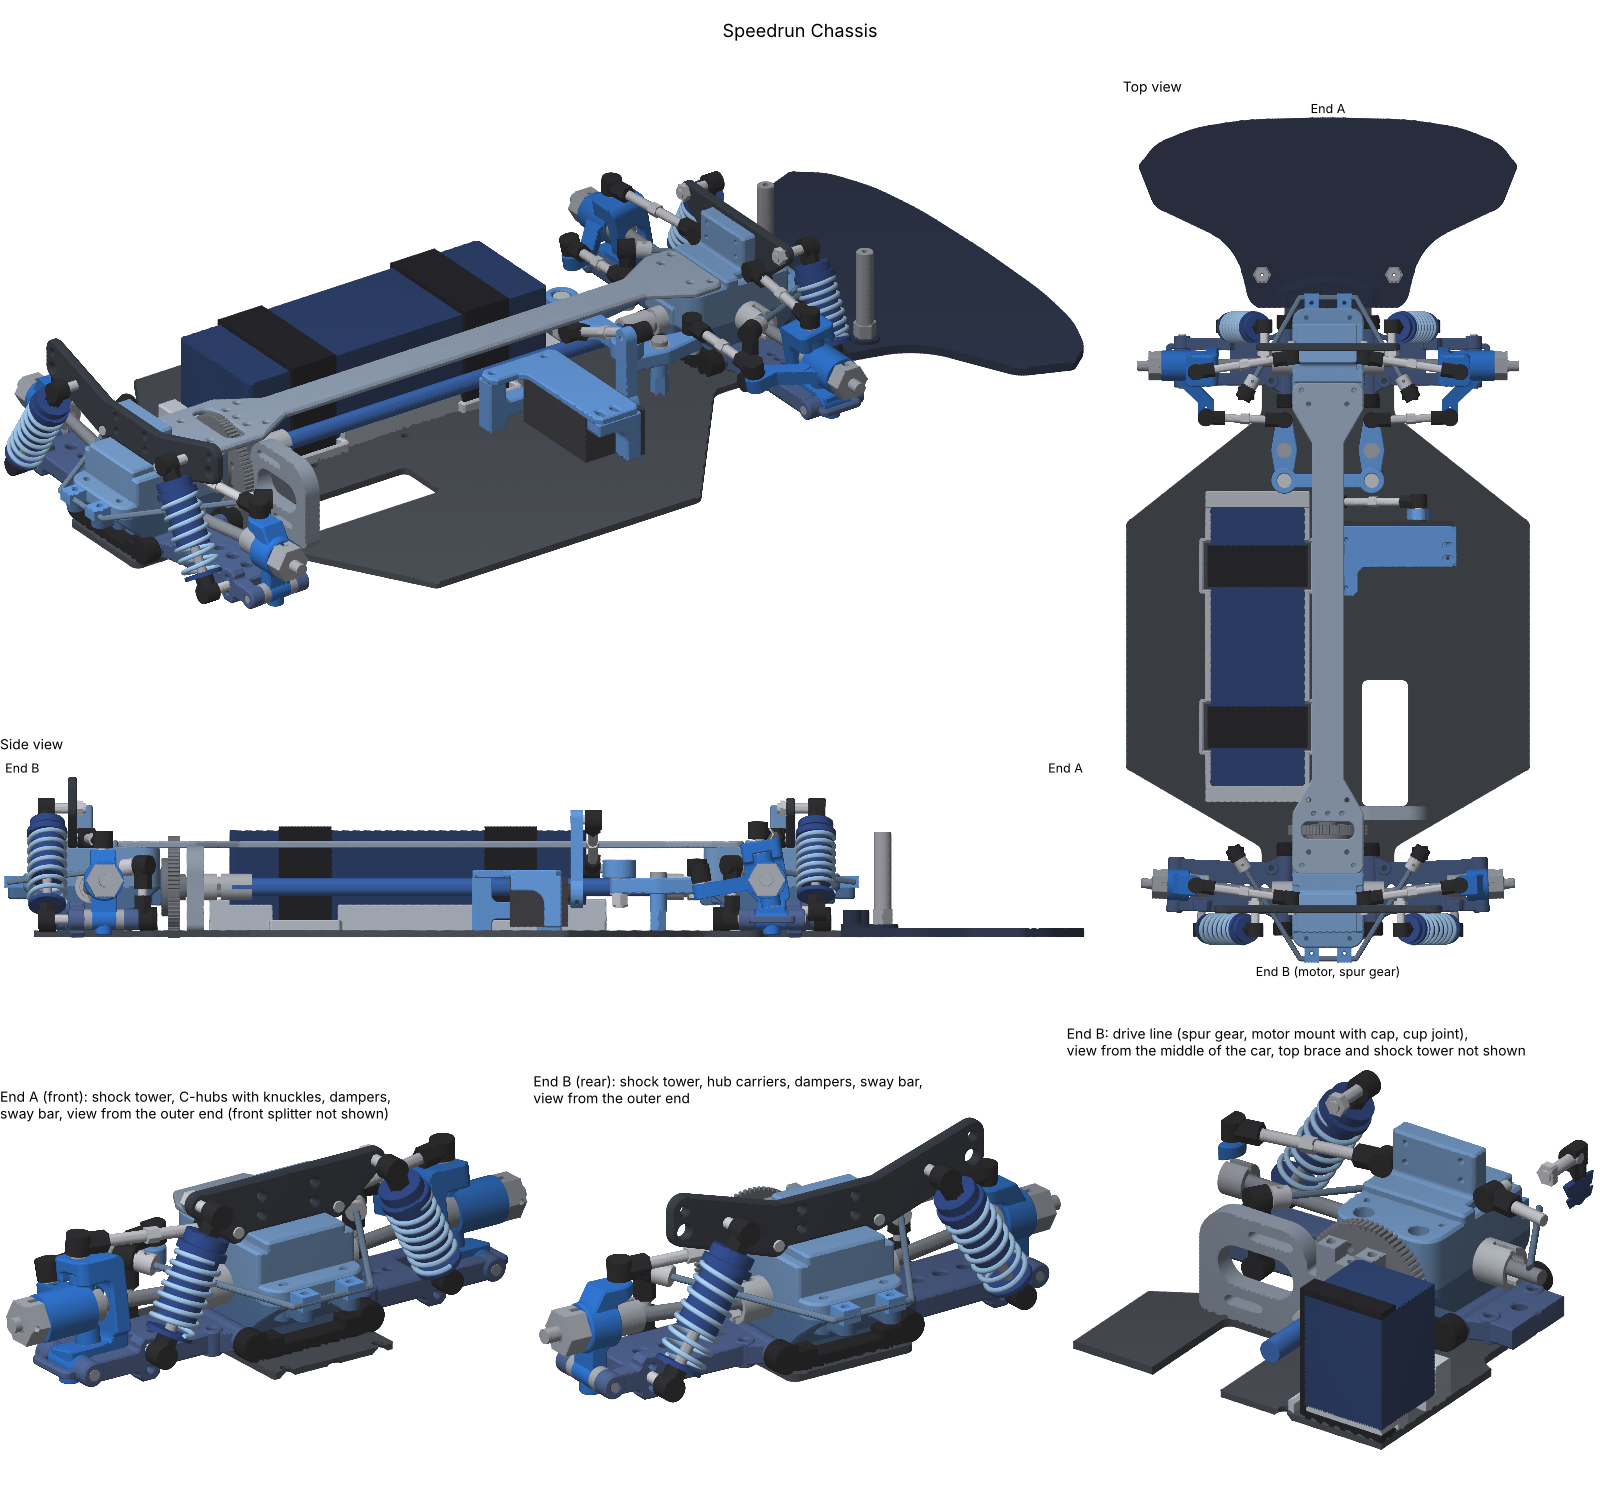
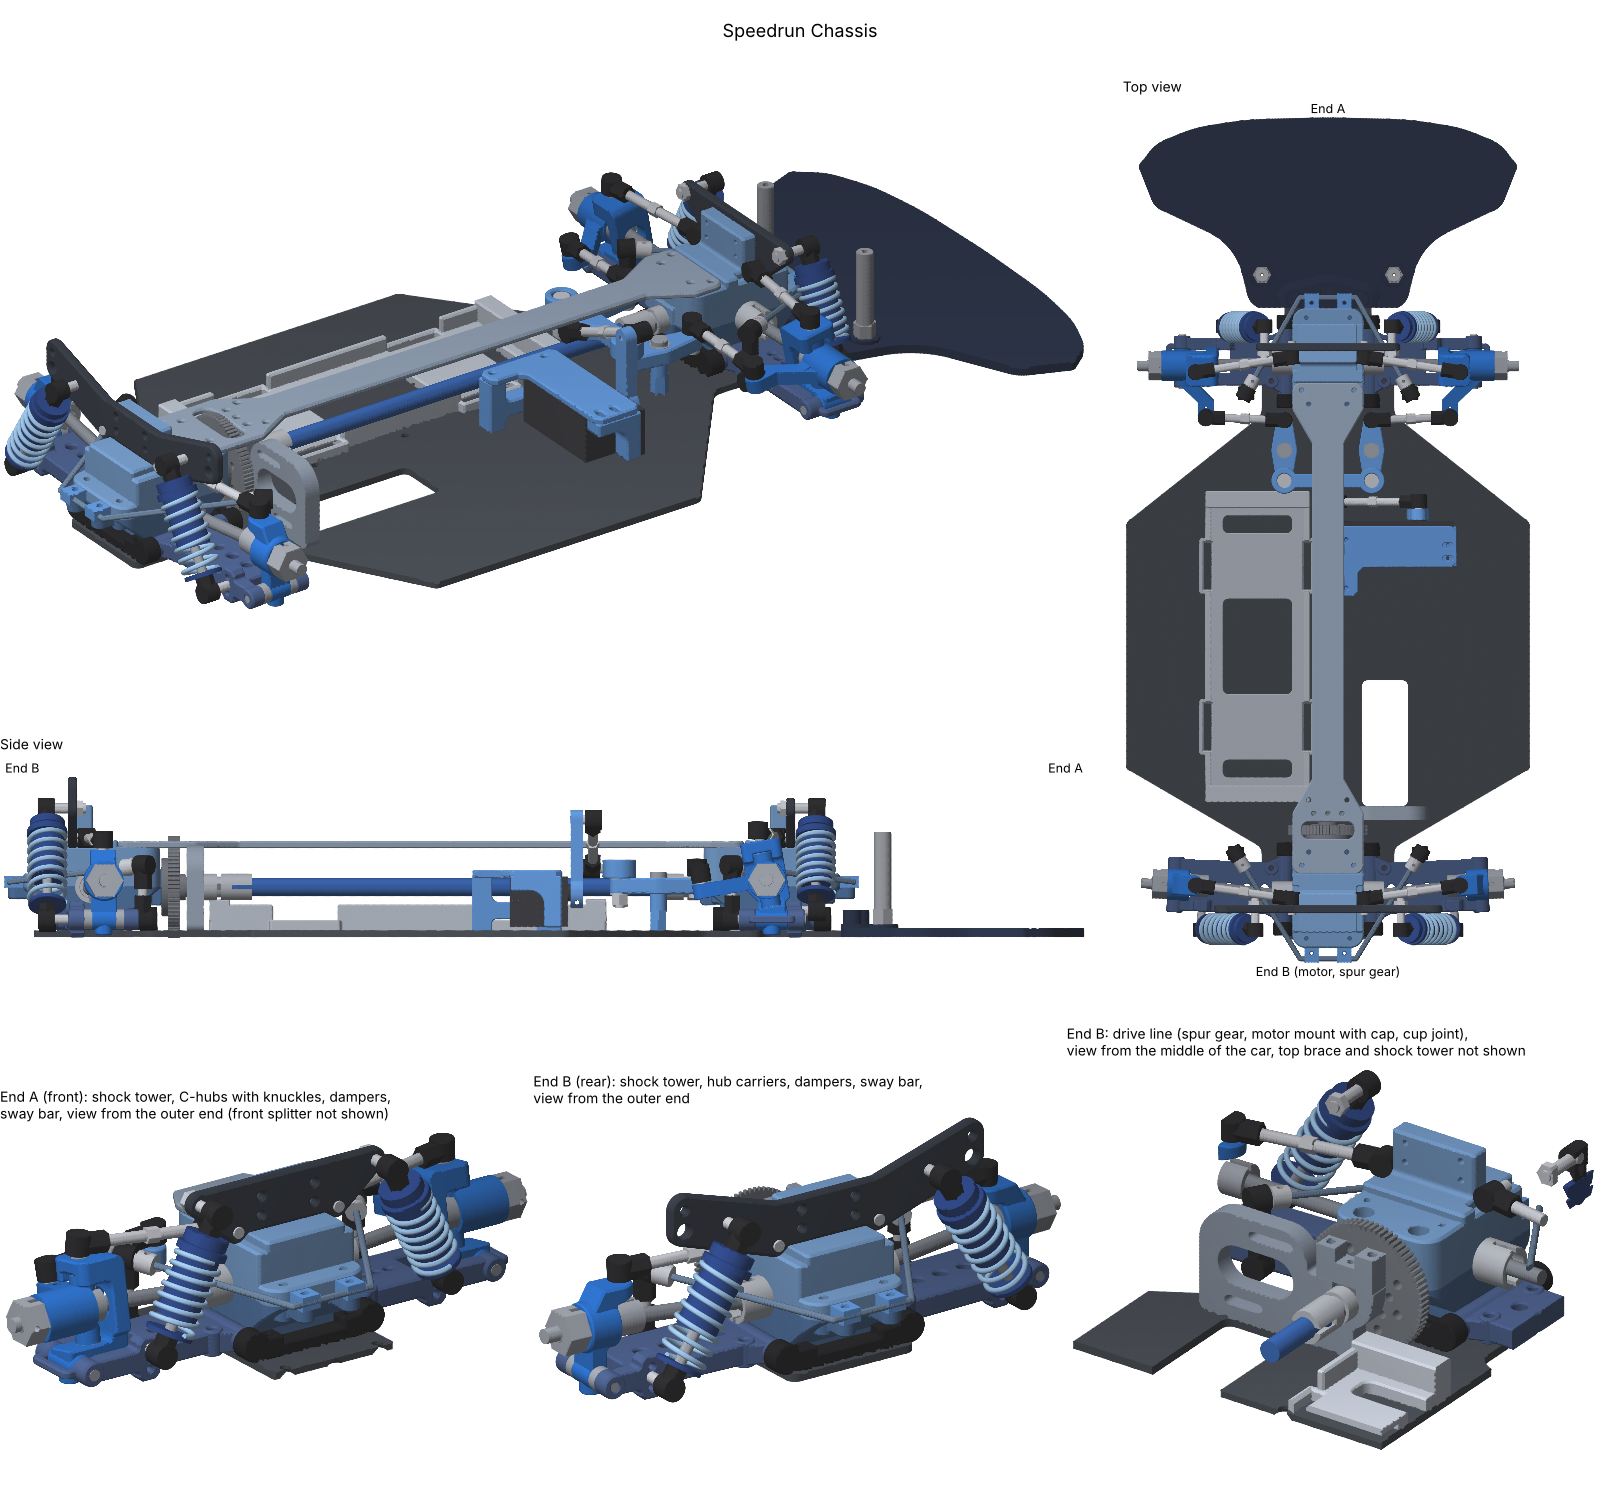
Assembly picture: battery and straps left out (only the battery tray)
Owner: only the battery tray is part of the chassis. The assembly picture
(photos/cad_speedrun_chassis_assembly.png) no longer shows the battery and
the 2 velcro straps (NOT_IN_PICTURE in generate_speedrun_assembly.py); they
stay in the assembly STEP file for the checks of the battery tray and the
dual motor study. CAD readme and session summary updated.

Claude-Session: https://claude.ai/code/session_012MJxxF9M8vwMjWFzyuC18V

diff --git a/scripts/cad/generate_speedrun_assembly.py b/scripts/cad/generate_speedrun_assembly.py
@@ -11,7 +11,8 @@ T410R; they are not in the mass total):
   rear tower at End B
 * speedrun battery tray on H11, H12, H22 and H23 (scripts/cad/generate_battery_tray.py) with the
   battery Absima GreenHorn 3S 5000 (hardcase) and the 2 velcro straps (battery and straps: not in the
-  mass total)
+  mass total and not in the picture, owner: only the battery tray is part of the chassis; they stay in the
+  STEP file for the checks)
 * speedrun front splitter at End A (scripts/cad/generate_front_splitter.py): one part, the body
   post mount enlarged to the splitter, on H34 to H36; the body posts (stock parts) are not in the
   mass total
@@ -70,6 +71,7 @@ OUT_STEP = "cad/assembly/speedrun_chassis_T410R.step"
 OUT_PNG = "photos/cad_speedrun_chassis_assembly.png"
 COLORS = dict(PARTS)                       # colour scheme of the CAD pictures: blue and grey (palette.py)
 PICTURE_ONLY = set()                       # keys of parts shown in the picture only (not in the STEP file)
+NOT_IN_PICTURE = {"battery", "strap"}      # in the STEP file (checks), not in the picture: not part of the chassis (owner)
 # part key: (label, material options with density in g/cm3)
 MATERIALS = {"plate": ("Speedrun chassis plate (wide, longer motor window)", {"6082": 2.70, "carbon": 1.6}),
              "lower": ("Lower bulkhead (2 pieces)", {"PA12": 1.01, "7075": 2.81}),
@@ -155,6 +157,7 @@ def tess(shape, tol=0.05):
 
 
 def image(parts, path):
+    parts = [q for q in parts if q[1] not in NOT_IN_PICTURE]                 # only the battery tray (owner, 2026-11-23)
     import matplotlib
     matplotlib.use("Agg")
     import matplotlib.pyplot as plt

diff --git a/project/session_summary.md b/project/session_summary.md
@@ -138,6 +138,7 @@ for f in subprocess.run(["git", "diff", "--name-only", "--diff-filter=M"], captu
 * **New shape of the front C-hub** (owner, 2026-11-23, after the steering hub study: option B, the C-hub and the knuckle stay; "less ugly and unstable", no sharp 90 degree corners; parameter `front_c_hub_rounds`): blends in the inner corners between the back plate and the arms on the side of the knuckle (quarter ellipses: upper 1.4 x 3.0, it ends 0.1 outside the U-slot around the upper boss; lower 1.8 x 3.0, approx. 0.5 from the washer 7.0; before radius 0.5), corners of the end of the upper arm R2.5, top and bottom edge on the side of the chassis R3.0 and R2.0, shoulders of the back plate above the rails of the wishbone at 45 degrees instead of the notches (steps 2.1 and 3.1). Faces toward the knuckle, bores, tube, passage and widths unchanged. A first variant (radius 3 in the upper corner, half-round end of the upper arm) was discarded: the U-slot cut the radius (pieces 0.05 from the boss), the slot met the round end in thin wedges and 12 edges stayed sharp. Result: edge treatment 10 radii, 40 chamfers, no sharp edge left, 3 short edges (before 14 radii, 12 short edges); volume 3.20 cm3 (before 3.27); free steering angle unchanged (35 / 45); no overlap with the knuckle, the washers, the sleeves and the kingpins over the steering angle (knuckle 0.071 at -35 deg as before). Ball head screw without flange (owner question): not useful in option B, the knuckle turns on 2 kingpins (pure pivots); the only ball is the camber ball stud on the top kingpin, whose collar clamps sleeve and washer and holds the ball 4.0 above the sleeve; a flangeless ball 4.8 would sit on the inner edge of the sleeve (line contact) approx. 2.2 lower, and the rod end of the camber link (0.38 above the top face) would hit the C-hub. Drawing note CH-R and CH-L. Owner, same day: the beautified C-hub is kept (function unchanged), the work on the steering hub stays in the study; the same treatment for the rear hub carrier (parameter `rear_carrier_rounds`): inner end of the top tab a half circle seen from above (R4.6, as far inward as before), blend 2.0 x 2.0 between the column and the underside of the bearing tube on the side of the chassis (revolved about the axle); edge treatment 4 radii, 30 chamfers, no sharp edge left (before 9 radii, 30 chamfers); swing on the hinge pin unchanged (no overlap, 1.49 at -25 deg), distances to the CVD drive shaft (3.57), camber link (1.1) and wishbone (2.89) unchanged; volume 2.03 cm3 (before 2.06). `technical_drawing.py`: silhouettes that run out and back on themselves (closed, no area; the hidden line removal returned one 4.8 mm out of the new C-hub in its top view) are not drawn. Camber link turnbuckle to the C-hub 1.99 (before 1.79, rounded top edge). Regenerated: running gear, assembly, assembly drawing, technical drawings CH-R and CH-L, camber links, battery tray, studies.
 * **Wishbones: the same treatment** (owner, 2026-11-23: "beautify the wishbones the same way", function unchanged; parameter `blends` in the wishbone parameters): blends between the end faces of the shock plate and the top and bottom faces of rail A (quarter ellipses 2.0 along the arm by 1.5, both arms, top and bottom: one arm of each axle is mounted upside down); rear arm: R2.0 (seen from above) in the inner corners between the outer cross bar and the rails at the opening for the hub carrier; front arm: outer corners of the thin loop beyond the outer lugs R2.0. Not done: the inner corners of the front window (the shock plate forms one corner, a hole of the sway ball stud lies 0.7 beside the other; the blend there left 15 edges without a chamfer) and the inner corners of the thin loop (2 x 2 bar: 7 edges without a chamfer). Developed on a scratch copy while the C-hub run was going. Result: front arm 110 chamfers, no sharp edge left (before 95, 12 reduced); rear arm 92, the 3 short edges of 0.72 at the droop bosses as before; checks on the plate as before (front arm 4.47 mm3 in the lower bulkhead End A, known; pivot blocks 0.14 / 0.11), running gear 0 overlaps, hub carrier swing 1.49 at -25 deg, assembly only the 3 known interferences. Regenerated: wishbones, drawings of the wishbones, running gear, assembly, assembly drawing, camber links, battery tray, studies.
 * **Technical drawing of the rear hub carrier** (owner, 2026-11-23; drawing RC-SR-HC, `cad/generic_parts/rear_corner`, key `hub_carrier` of `generate_technical_drawings.py`): 3 sheets A3, scale 2:1, in the frame of the rear wishbone (origin on the axis of the outer hinge pin in the middle of the tube on the pin, x along the axle, y along the pin; toe 2.33 deg); views, section B-B in the middle plane (bearing seats Ø10 K7 proposal, lip Ø8.0, thread M3 of the camber ball stud, bore Ø3.1 of the hinge pin, thread M3 of the grub screw), hole table (3 holes) and notes (same part on both sides, seats and lip sharp, pin and grub screw, camber stud 13.7 from the outer face, gusset and shape, swing check). Material to be defined, status measures qualified. The automatic angle dimension is switched off for this part (option `auto_angles`; its label overlapped the outline, the gusset angle is in the notes). `technical_drawing.py`: the hole table writes +0.00 instead of -0.00. New readme of the directory; CAD readme updated.
+* **Assembly picture without the battery** (owner, 2026-11-23: only the battery tray is part of the chassis): `generate_speedrun_assembly.py` leaves the battery and the 2 velcro straps out of the picture (`NOT_IN_PICTURE`); they stay in the assembly STEP file for the checks (battery tray, dual motor study). Picture regenerated; CAD readme updated.
 
 ## Current geometry (key values)
 | Value | Model |

diff --git a/cad/readme.md b/cad/readme.md
@@ -88,6 +88,8 @@ The speedrun chassis combines the parts that are designed in this project for sp
 
 ![Speedrun chassis: complete build with the drive line, the wishbones and the running gear](../photos/cad_speedrun_chassis_assembly.png)
 
+The picture shows the battery tray without the battery and the straps (owner: only the battery tray is part of the chassis); the assembly STEP file contains them for the checks.
+
 ### Parts of the speedrun chassis
 | Part | Quantity | Directory | Status | Order | Material | Mass |
 |:---|---:|:---|:---|:---|:---|---:|
@@ -137,7 +139,7 @@ Status: $\color{green}\checkmark$ verified (test print or on the car), $\color{g
 * The end of the top brace with the obround is at End B (motor window, spur gear). End A is assumed to be the front (see [open points of the lower bulkhead](#open-points-of-the-lower-bulkhead)).
 
 ### Assembly file
-* `assembly/speedrun_chassis_T410R.step`: assembly of the 10 parts of the speedrun chassis (with the front splitter and the battery tray), the battery with its 2 straps and 182 further parts (pivot blocks, wishbones with hinge pins, camber links, centre driveshaft with cup joints, front and rear drive line with pinions, bearings and retaining pins, spur gear, motor mount with cap, the differential with its inner parts and the spool, 4 diff outdrives, and the running gear: C-hubs, knuckles with guide sleeves, kingpin washers and kingpin screws, hub carriers, axles, hex hubs, CVD drive shafts, steering, servo with the floating servo mount, dampers, sway bars with drop links; the 2 front body posts) in the coordinate system of the chassis plate (STEP AP214, one solid per part; the 3 shims behind each side gear are one solid).
+* `assembly/speedrun_chassis_T410R.step`: assembly of the 10 parts of the speedrun chassis (with the front splitter and the battery tray), the battery with its 2 straps (for the checks; not in the assembly picture, owner: only the battery tray is part of the chassis) and 182 further parts (pivot blocks, wishbones with hinge pins, camber links, centre driveshaft with cup joints, front and rear drive line with pinions, bearings and retaining pins, spur gear, motor mount with cap, the differential with its inner parts and the spool, 4 diff outdrives, and the running gear: C-hubs, knuckles with guide sleeves, kingpin washers and kingpin screws, hub carriers, axles, hex hubs, CVD drive shafts, steering, servo with the floating servo mount, dampers, sway bars with drop links; the 2 front body posts) in the coordinate system of the chassis plate (STEP AP214, one solid per part; the 3 shims behind each side gear are one solid).
 * The further own parts are not in the mass total (see [further own parts](#further-own-parts)).
 * The interference check of all pairs of parts gives 0 mm³, except 0.34 mm³ between the lower bulkhead at End B and the long pivot block (0.82 mm³ before the edge chamfer of the block) (see [pivot blocks](#pivot-blocks)) and 4.47 mm³ between the lower bulkhead at End A and each front wishbone (the tube on the inner hinge pin reaches 0.14 mm into the side face, see [wishbones](#wishbones)).
 * The assembly file and the image are generated with the script `generate_speedrun_assembly.py` (see [scripts](#scripts)) from the files of the parts.
